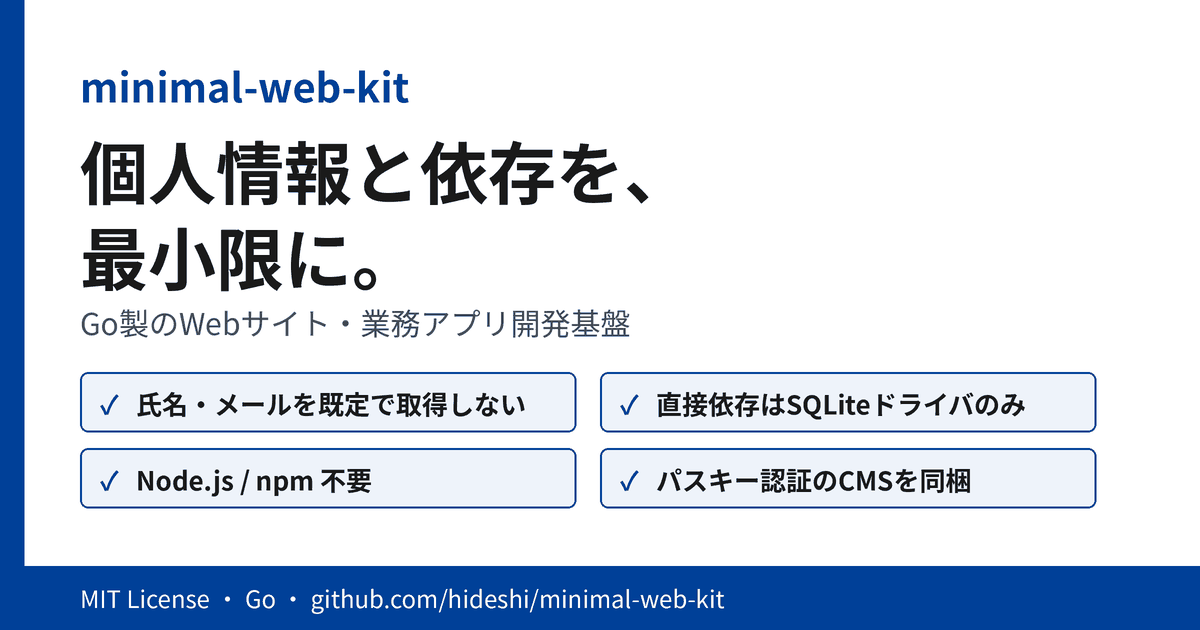
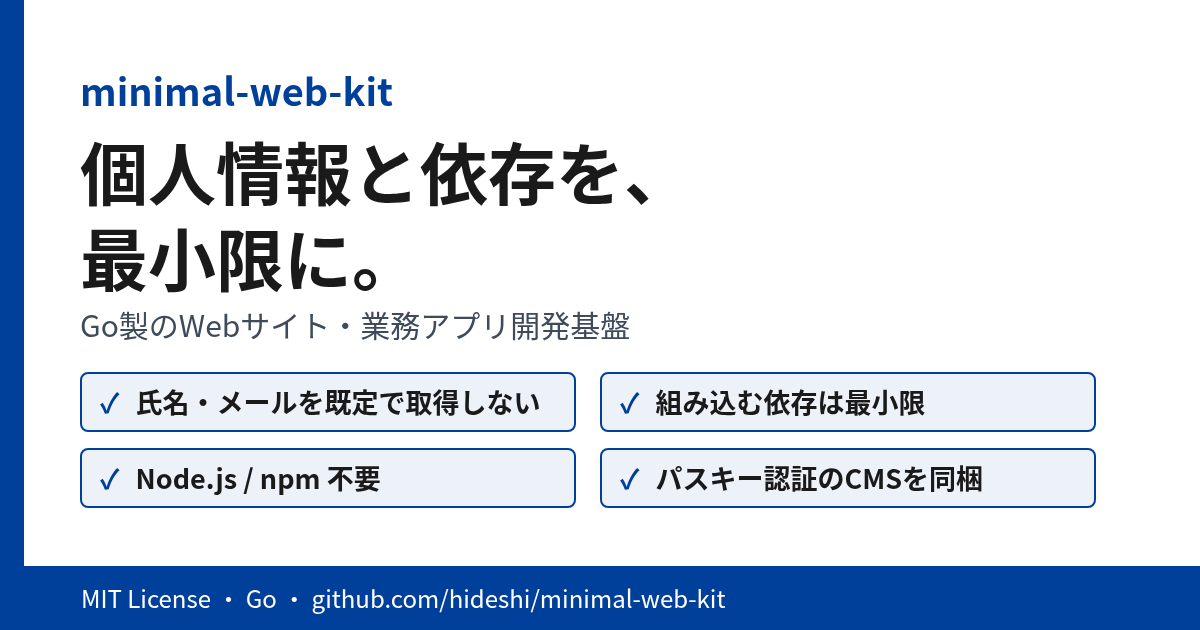
fix: トップの依存とスキルの説明を実態に合わせる
共通認証を足してから、go.mod の直接依存は5本になった。「直接依存はSQLiteのみ」という
断定を、本文・説明文・フッター・README・SNSの画像で、組み込まれる依存の話に直す。
スキルの説明も6本に直す。

diff --git a/features/site/views/index.html b/features/site/views/index.html
@@ -3,7 +3,7 @@
   <span class="card-badge">STANDARD LIBRARY FIRST</span>
   <h1 class="hero-title">ムダを削ぎ落とし、最短で公開する。</h1>
   <p class="hero-lead">
-    Goの直接依存はSQLiteドライバのみ、Node.js/npm不要。Go標準機能と公的Webアクセシビリティ指針に基づくミニマルUIで、安全・堅牢なWebサイトとサービスを今すぐ立ち上げられます。
+    共通認証を使わなければ、組み込まれる直接依存はSQLiteドライバだけ。Node.js/npm不要。Go標準機能と公的Webアクセシビリティ指針に基づくミニマルUIで、安全・堅牢なWebサイトとサービスを今すぐ立ち上げられます。
   </p>
   <div class="hero-cta">
     <a href="https://github.com/hideshi/minimal-web-kit" target="_blank" rel="noopener noreferrer" class="btn btn-primary btn-cta">
@@ -26,7 +26,7 @@
   <div class="grid-3">
     <article class="card">
       <span class="card-badge">MINIMAL DEPENDENCY</span>
-      <h3 class="card-title">Goの直接依存はSQLiteのみ &amp; 単一バイナリ</h3>
+      <h3 class="card-title">組み込む依存は最小限 &amp; 単一バイナリ</h3>
       <p class="card-content">
         Node.js、npm、ビルドツールは一切不要。Go標準機能（net/http, html/template, embed.FS, log/slog）を中心に構成され、CGO不要の単一実行ファイルとしてビルドできます。ブラウザ側のライブラリは、カタログの公開一覧で使う固定版のhtmxだけを同梱しています。
       </p>
@@ -100,7 +100,7 @@
 <section id="how-it-works" class="section">
   <div class="section-header">
     <h2>AI開発ツールと3ステップで構築</h2>
-    <p class="section-lead">編集にはClaude Code、Codex、Cursor、Antigravityのいずれかを推奨します。同梱の設計・実装・監査スキルを読み込んで進めてください。</p>
+    <p class="section-lead">編集にはClaude Code、Codex、Cursor、Antigravityのいずれかを推奨します。同梱の6本のスキル（設計・実装・監査・本番・プライバシー・脆弱性）を読み込んで進めてください。</p>
   </div>
 
   <ol class="step-list" role="list">

diff --git a/features/site/views/layout.html b/features/site/views/layout.html
@@ -52,7 +52,7 @@
 
   <footer>
     <div class="footer-inner">
-      <p>&copy; 2026 minimal-web-kit. Goの直接依存はSQLiteドライバのみ。公開ページはCookieなしで閲覧できます。</p>
+      <p>&copy; 2026 minimal-web-kit. 通常の構成に組み込まれる直接依存はSQLiteドライバだけ。公開ページはCookieなしで閲覧できます。</p>
       <p><a href="/privacy">プライバシーポリシー・免責事項</a></p>
     </div>
   </footer>

diff --git a/features/site/site.go b/features/site/site.go
@@ -37,7 +37,7 @@ type Feature struct {
 
 const (
 	// description は検索結果とSNSのカードに表示する説明文です。
-	description = "個人情報の取得と依存関係を最小限に抑える、Go製のWebサイト・業務アプリの開発基盤。Goの直接依存はSQLiteドライバのみ、Node.js/npm不要。LP・お知らせ・カタログ・お問い合わせのテンプレートとAI開発スキルを同梱。"
+	description = "個人情報の取得と依存関係を最小限に抑える、Go製のWebサイト・業務アプリの開発基盤。共通認証を使わなければ、組み込まれる直接依存はSQLiteドライバだけ。Node.js/npm不要。LP・お知らせ・カタログ・お問い合わせ・固定ページのテンプレートとAI開発スキルを同梱。"
 	// ogImagePath はSNSのカード用画像（1200×630px）の配信パスです。
 	ogImagePath = "/static/img/ogp.png"
 	ogImageAlt  = "minimal-web-kit：個人情報と依存を最小限に抑えるWeb開発基盤"

diff --git a/features/site/site_test.go b/features/site/site_test.go
@@ -37,7 +37,7 @@ func TestSiteFeature_HandleRoot(t *testing.T) {
 
 	expectedSnippets := []string{
 		"ムダを削ぎ落とし、最短で公開する。",
-		"Goの直接依存はSQLiteのみ &amp; 単一バイナリ",
+		"組み込む依存は最小限 &amp; 単一バイナリ",
 		"<title>個人情報と依存を最小限に抑えるWeb開発基盤 - minimal-web-kit</title>",
 		"個人情報の取得最小化 &amp; 漏洩リスクへの対策",
 		"アクセシブルなUIデザイン",

diff --git a/README.md b/README.md
@@ -259,7 +259,7 @@ minimal-web-kit federated-account -sub <sub> -role admin
 
 ## 依存モジュール
 
-直接依存は `modernc.org/sqlite`（純Go版SQLiteドライバ）だけです。このドライバを通じて、次のモジュールが実行ファイルに組み込まれます（Linuxのamd64・arm64、CGO無効で確認）。
+通常の構成（共通認証を登録しない構成）に組み込まれる直接依存は `modernc.org/sqlite`（純Go版SQLiteドライバ）だけです。このドライバを通じて、次のモジュールが実行ファイルに組み込まれます（Linuxのamd64・arm64、CGO無効で確認）。
 
 | モジュール | 用途 | ライセンス |
 |---|---|---|
